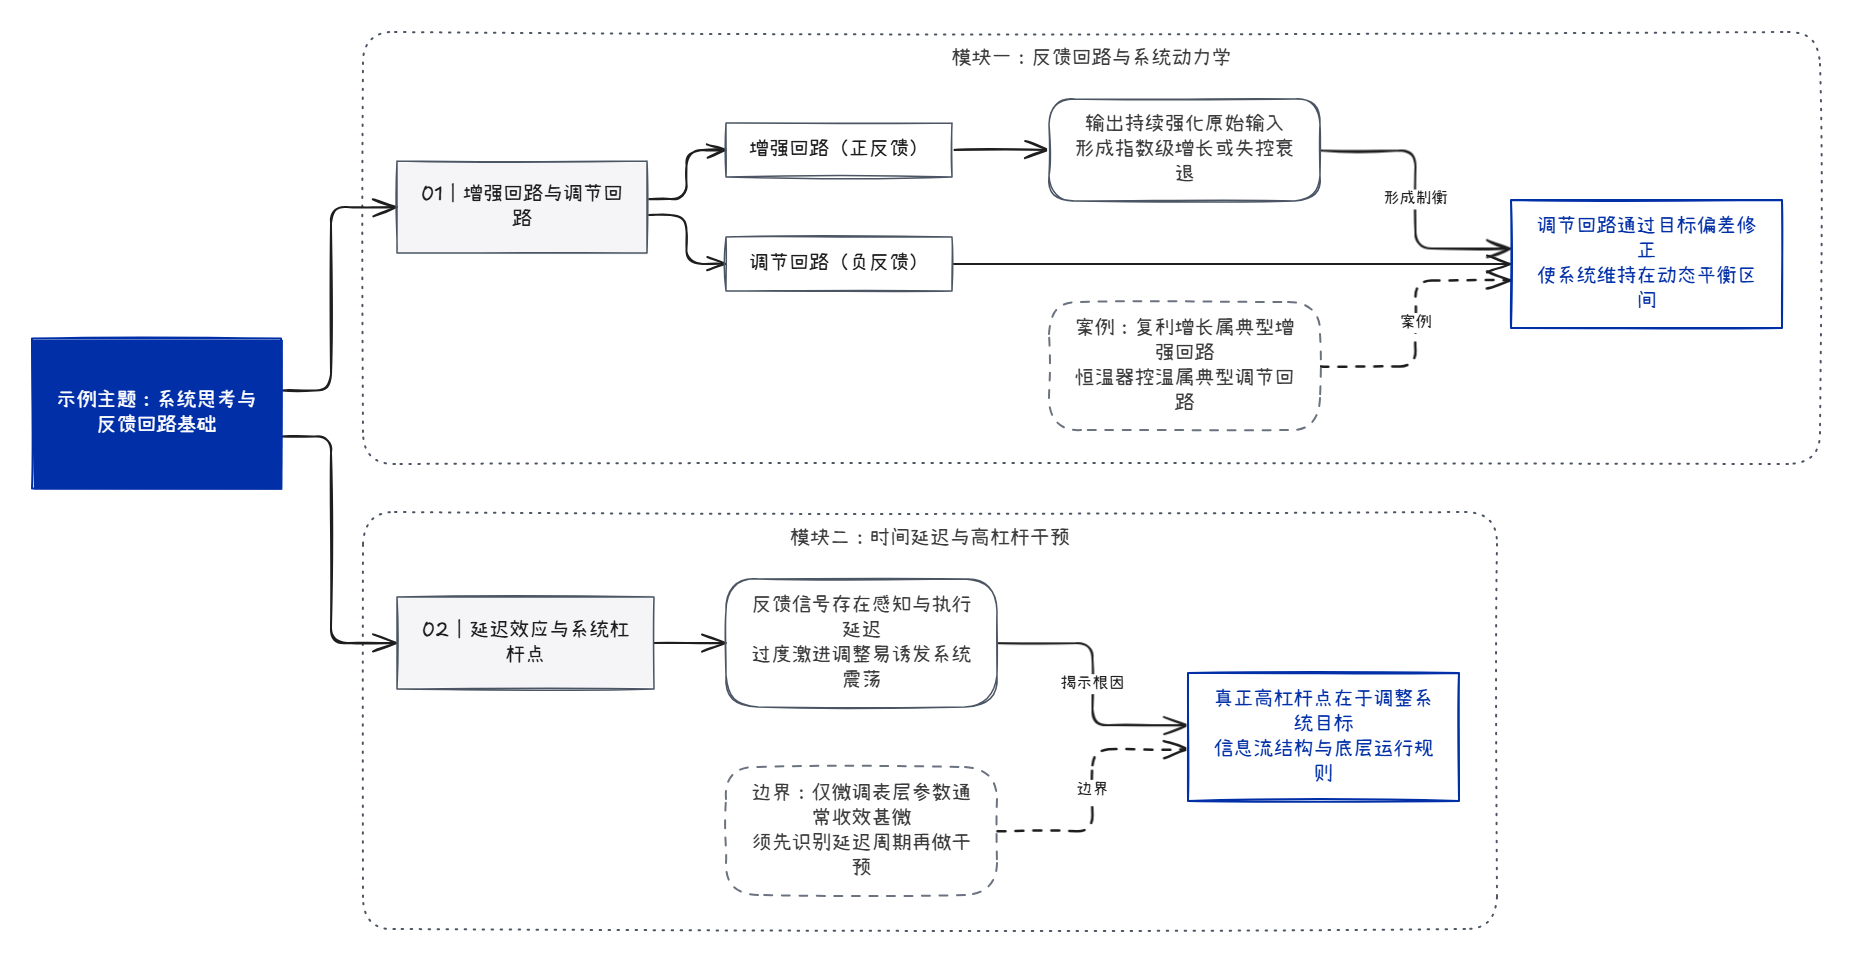
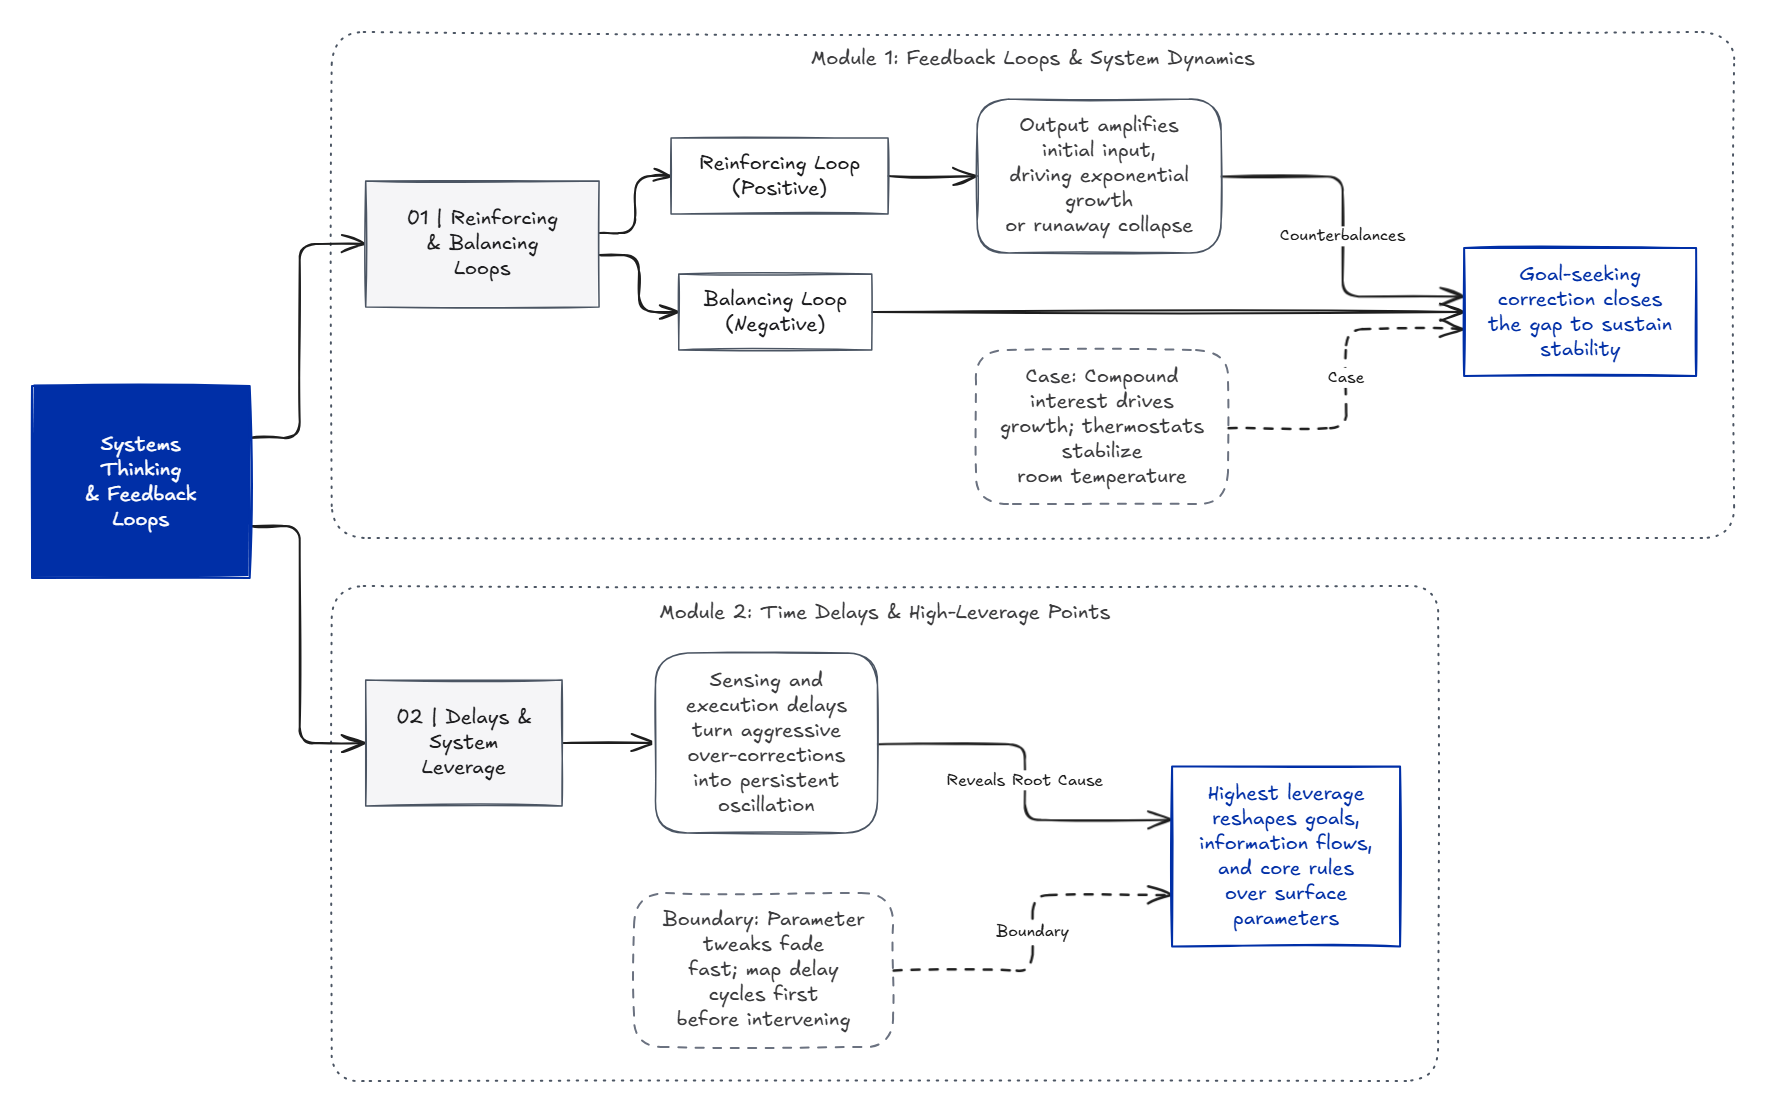
docs: switch hero showcase diagram & README to pure English

Changed region(s): [[0.0, 0.0312, 0.9655, 0.9365], [0.5606, 0.3122, 0.7475, 0.437], [0.654, 0.437, 0.6852, 0.4683]]

diff --git a/README.md b/README.md
@@ -12,7 +12,7 @@
 > Turn any book, paper, course, video, audio recording, image, or web page into a **fact-audited, zero-interference, publication-grade Mermaid Flowchart (`.mmd`) and native editable Excalidraw (`.excalidraw`) canvas** — powered by **Multi-Candidate Tournament Synthesis**, a **100-Point Deterministic Harness**, an **Offline-Cached Official Excalidraw Engine (`elbow: true`)**, and a **10-Check Real-Excalidraw Geometric Deconfliction Solver**.
 
 ![Cartograph Rendered Excalidraw Showcase](examples/preview-showcase.png)
-*Real unedited output rendered by Cartograph's own pipeline (`examples/golden-reference.mmd` → official `@excalidraw/mermaid-to-excalidraw` with `elbow: true` → 10-check `excalidraw_deconflict.py` → `exportToBlob` PNG): Klein Blue `#002FA7` focus anchors, dark-gray `#4B5563` solid content cards and rounded dotted module containers, `#6B7280` dashed auxiliary evidence cards, authentic Excalifont hand-drawn strokes, and 100% orthogonal arrows with zero overlaps.*
+*Real unedited output rendered by Cartograph's own pipeline (`examples/showcase-en.mmd` → official `@excalidraw/mermaid-to-excalidraw` with `elbow: true` → 10-check `excalidraw_deconflict.py` → `exportToBlob` PNG): Klein Blue `#002FA7` focus anchors, dark-gray `#4B5563` solid content cards and rounded dense-dotted module containers, `#6B7280` dashed auxiliary evidence cards, authentic Excalifont hand-drawn strokes, and 100% orthogonal arrows with zero overlaps.*
 
 ---
 
@@ -22,7 +22,7 @@ Anyone who has tried turning a dense 300–500 page book, lecture series, or tec
 
 1. **Page-by-page AI summarizers shatter narrative logic**: Mechanical page-boundary chunking produces shallow bullet lists that lose causal structure and feel worse to read than the original text.
 2. **Single-shot LLM Mermaid prompts produce unreadable hairballs**: They hallucinate loose cross-chapter spaghetti links, drop formulas/edge cases, silently break Mermaid syntax, or split one cohesive work into disconnected canvases.
-3. **Raw `mermaid-to-excalidraw` breaks on real dense & CJK graphs**: Even when the Mermaid syntax is valid, raw Excalidraw conversion routinely outputs curved diagonal splines (when `elbow: true` is omitted), places elbow turns **18px from a target box wall** so Chinese edge labels collide straight into node rectangles, stacks parallel arrows on top of each other's labels, clips CJK/digit chapter titles, lets external trunk lines run across module borders, and overflows module frames past their right-most cards. *(Even on the tiny 11-node showcase graph above, raw official export produces **17 geometric/clipping defects**; Cartograph's solver eliminates all 17 deterministically.)*
+3. **Raw `mermaid-to-excalidraw` breaks on real dense & multilingual graphs**: Even when the Mermaid syntax is valid, raw Excalidraw conversion routinely outputs curved diagonal splines (when `elbow: true` is omitted), places elbow turns **18px from a target box wall** so edge labels collide straight into node rectangles, stacks parallel arrows on top of each other's labels, clips Excalifont chapter titles, lets external trunk lines run across module borders, and overflows module frames past their right-most cards. *(Even on the compact 11-node English showcase above, raw official export produces **17 geometric & clipping defects** — all 4 edge labels collide into target nodes, 11 cards overflow Excalifont bounds, and both module titles clip; Cartograph's solver eliminates all 17 deterministically.)*
 4. **No deterministic verification loop**: Existing diagram skills generate once and pray — never measuring node overlap, label collisions, text clipping, or cross-module noise, and never inspecting rendered pixels before delivery.
 5. **Heavy runtime friction**: Most Mermaid-to-Excalidraw pipelines force you to install Node.js, npm, Puppeteer/Playwright, and live CDN bundles just to export one `.excalidraw` file.
 
@@ -85,14 +85,14 @@ flowchart LR
 
 ## Deep Dive: Engineering Pillars
 
-### 1. Universal Multimodal Ingestion & Chinese-First Localization
+### 1. Universal Multimodal Ingestion & Bilingual Language Modes (`--lang en` / `--lang zh`)
 | Input Format | Ingestion Mechanism | Integrity Guarantee |
 |---|---|---|
 | **PDF, Images, Audio, Video** | Native multimodal agent reading | Preserves diagrams, equations, tables, slides, and spoken nuance |
 | **EPUB, DOCX, HTML, SRT/VTT, MD, TXT** | `scripts/extract_content.py` (Python stdlib only) | Spine-ordered EPUB extraction, DRM detection, heading preservation, subtitle timestamp cleanup |
 | **Static & Dynamic Web URLs** | `extract_content.py` / Browser subagent | Strict factual boundary: paywalled or unreachable sources trigger an explicit gap report — never fabricated |
 
-- **Idiomatic Chinese Localization by Default (`--lang zh`)**: Foreign-language sources (English books, papers, courses) are translated and localized into natural, idiomatic Simplified Chinese before graph synthesis, preserving essential acronyms, frameworks, and formulas in concise bilingual parentheticals (e.g., `投资回报率（ROI）`, `反馈回路（Feedback Loop）`). The harness deterministically enforces `cjk_node_ratio >= 0.85` unless `--lang en` is requested.
+- **Dual Language Modes (`--lang en` & `--lang zh`)**: Generate pure English graphs with `--lang en` (as shown in the hero showcase above), or automatically localize foreign-language books, papers, and courses into idiomatic Simplified Chinese (`--lang zh`, the default for Chinese prompts) while preserving key acronyms, formulas, and framework names in concise bilingual parentheticals — deterministically verified by the harness (`cjk_node_ratio >= 0.85` in `zh` mode).
 
 ### 2. Code-Enforced Parallel 3-Candidate Tournament & Bounded Self-Healing Loop
 `scripts/orchestrate_pipeline.py` enforces multi-candidate synthesis in executable workflow code (not wishful prompt text):
@@ -168,8 +168,9 @@ knowledge-graph-architect/
 │   ├── orchestrate_pipeline.py               # Code-enforced parallel 3-candidate tournament + repair loop
 │   └── mermaid_to_excalidraw.py              # Static Mermaid auditor, geometry checker & offline fallback compiler
 └── examples/
-    ├── golden-reference.mmd                  # Reference compliant Mermaid fixture
-    └── preview-showcase.png                  # Real rendered showcase output from golden-reference.mmd
+    ├── showcase-en.mmd                       # English showcase Mermaid source rendered in README
+    ├── preview-showcase.png                  # Real rendered Excalidraw showcase from showcase-en.mmd
+    └── golden-reference.mmd                  # CJK localization regression fixture for --self-test
 ```
 
 ---
